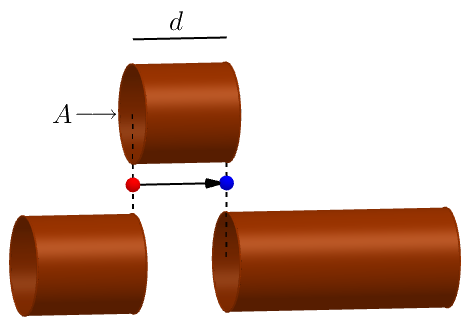
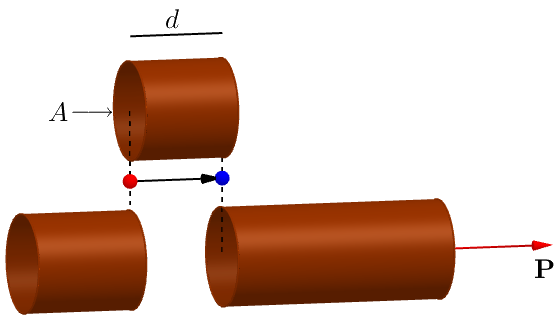
finalizacao campo densidade fluxo eletrico e alteracao de figura

Changed region(s): [[0.0897, 0.1703, 1.0, 0.9937], [0.0, 0.653, 0.3291, 0.9937], [0.2393, 0.0284, 0.4786, 0.142]]

diff --git a/fund_eletro.tex b/fund_eletro.tex
@@ -163,7 +163,7 @@ Considere agora um laço circular (linha de campo magnético) de raio $r$ contid
 \end{equation*} 
 \begin{figure}[h]
 \centering
-\includegraphics[scale=.5]{laco_amperiano}
+\includegraphics[scale=.4]{laco_amperiano}
 \caption{\textit{Laço amperiano seguindo a regra da mão direita: posicionando o polegar no sentido da corrente, o campo magnético tem o mesmo sentido dos demais dedos curvando em torno do fio.}}
 \label{fig.laco_amperiano}
 \end{figure}
@@ -314,18 +314,18 @@ A quarta e última equação de Maxwell é obtida substituindo a equação do fl
 \end{align*}
 
 Todos os fenômenos eletromagnéticos são governados por essas quatro equações de Maxwell  e os últimos duzentos anos acumularam evidências suficientes para tal fato. Como vimos, todas as equações têm princípios experimentais, são deduzidas formalmente em termos de cálculo diferencial e integral, e são satisfeitas pelas variáveis físicas $\rho$ e $\mathbf{J}$ que são as fontes dos campos elétrico e magnético respectivamente. As equações são sumarizadas a seguir:
-\begin{align*}
-\int\int_S\epsilon_0\textbf{E}\cdot\textit{d}\textbf{A}&=\int\int\int_{V}\rho\,dV,\\\\
-\int\int_S\textbf{B}\cdot\textit{d}\textbf{A}&=0,\\\\
-\int_s\frac{\mathbf{B}}{\mu_0}\cdot d\mathbf{s}&=\int\int_S\mathbf{J}\cdot\,d\mathbf{A}+\frac{d}{dt}\int\int_S\epsilon_0\,\textbf{E}\cdot\textit{d}\textbf{A},\\\\
+\begin{align}\label{eq.maxwell_1}
+\int\int_S\epsilon_0\textbf{E}\cdot\textit{d}\textbf{A}&=\int\int\int_{V}\rho\,dV,\\\nonumber\\\label{eq.maxwell_2}
+\int\int_S\textbf{B}\cdot\textit{d}\textbf{A}&=0,\\\nonumber\\\label{eq.maxwell_3}
+\int_s\frac{\mathbf{B}}{\mu_0}\cdot d\mathbf{s}&=\int\int_S\mathbf{J}\cdot\,d\mathbf{A}+\frac{d}{dt}\int\int_S\epsilon_0\,\textbf{E}\cdot\textit{d}\textbf{A},\\\nonumber\\\label{eq.maxwell_4}
 \int_s\pmb{E}\cdot d\pmb{s}&=-\frac{d}{dt}\int\int_S\pmb{B}\,d\pmb{A}.
-\end{align*}
+\end{align}
 
 \section{Generalizações da teoria}
 
 Nosso intuito é utilizar as equações de Maxwell para ajudar a determinar a composição de uma determinada região da subsuperfície. As informaçãoes sobre as propriedades eletromagnéticas de uma região dependem dos parâmetros $\rho$ e $\mathbf{J}$ de cada região, e esses parâmetros são usados para definir e inserir nas equações de Maxwell dois campos vetoriais, $\mathbf{D}$ e $\mathbf{H}$, que estão diretamente ligados às características do meio como veremos a seguir.
 
-De acordo com \cite{griffiths}, um átomo eletricamente neutro também tem algumas de suas características alteradas quando expostos num campo elétrico, pois as cargas positivas (no núcleo) são empurradas numa direção e as cargas negativas (elétrons) são empurradas para uma direção oposta. Na verdade, se o campo elétrico é muito forte, pode ser criada uma alteração permanente ``ionizando" o átomo. A aplicação de campo elétrico não tão extremo faz com que um equilíbrio seja rapidamente estabilizado criando um centro de cargas positivas e outro de cargas negativas deixando o átomo \textit{polarizado}, o qual agora passa a ter um pequeno \textit{momento de dipolo elétrico}, $\mathbf{p}$, que tem a mesma direção do campo elétrico e é proporcional ao mesmo.
+De acordo com \cite{griffiths}, um átomo eletricamente neutro também tem algumas de suas características alteradas quando expostos a campo elétrico $\mathbf{E}$, pois as cargas positivas (no núcleo) são empurradas numa direção e as cargas negativas (elétrons) são empurradas num sentido oposto. Na verdade, se o campo elétrico é muito forte, pode ser criada uma alteração permanente ``ionizando" o átomo. A aplicação de campo elétrico não tão extremo faz com que um equilíbrio seja rapidamente estabilizado criando um centro de cargas positivas e outro de cargas negativas deixando o átomo \textit{polarizado}, o qual agora passa a ter um pequeno \textit{momento de dipolo elétrico}, $\mathbf{p}$, que tem a mesma direção do campo elétrico e é proporcional ao mesmo.
 \begin{equation*}
 \mathbf{p}=\alpha\,\mathbf{E},
 \end{equation*}
@@ -349,8 +349,41 @@ Suponha que temos uma longa cadeia de dipolos conforme a figura \ref{fig.penquen
 \label{fig.polari_cilindro}
 \end{figure}
 Sendo $P$ a polarização de uma minúscula amostra do volume, $A$ a área de seção transversal do tubo e $d$ o comprimento da amostra, temos que o momento de dipolo da amostra é dado por $P\,A\,d$. Em termos de carga elétrica, esse momento de dipolo também pode ser definido como $q\,d$, onde $q$ é a carga elétrica no limite direito da amostra, e de onde se deduz que $q=P\,A$. Com a polarização, cargas são acumuladas no inteiror do corpo formando uma densidade de carga de polarização $\rho_p$, ocorrendo então um fenômeno de divergência da polarização através da superfície do tubo análago ao fenômeno da lei de Gauss. Assim, como um corpo dielétrico é eletricamente neutro, a quantidade total de carga negativa acumulada no interior do tubo é igual e oposta à quantidade de carga positiva empurrada através da superfície,
-\begin{equation*}
+\begin{equation}\label{eq.polarizacao_densidade}
 \int\int\int_V\rho_p\,d\,V=\int\int_S\mathbf{P}\cdot d\mathbf{A}.
+\end{equation}
+Um meio não possui somente cargas de polarização mas também pode possuir \textit{cargas livres}, as quais se movimentam livremente sob a ação de um campo elétrico. Denotando por $Q_f$ a quantidade de cargas livres e $Q_p$ as cargas de polarização, temos que a quantidade total de cargas de um meio qualquer é dada por
+\begin{equation*}
+Q=Q_f+Q_p,
+\end{equation*} 
+e usando a equação \ref{eq.densidade_carga}, temos que a densidade de carga do meio é
+\begin{equation}\label{eq.densi_carga_f_p}
+\int\int\int_{V}\rho\,dV=\int\int\int_{V}\rho_f\,dV+\int\int\int_{V}\rho_p\,dV.
+\end{equation}
+Substituindo a equação \ref{eq.densi_carga_f_p} na equação \ref{eq.maxwell_1}, a lei de Gauss para o fluxo elétrico se torna
+\begin{equation}\label{eq.lei_gauss_polarizacao}
+\int\int_S\epsilon_0\,\mathbf{E}\cdot d\mathbf{A}=\int\int\int_{V}\rho_f\,dV+\int\int\int_{V}\rho_p\,dV.
+\end{equation}
+Substituindo a equação \ref{eq.lei_gauss_polarizacao} na equação \ref{eq.polarizacao_densidade}, temos uma relação entre as cargas livres e de polarização com a lei de Gauss,
+\begin{align*}
+\int\int_S\epsilon_0\,\mathbf{E}\cdot d\mathbf{A}&=\int\int\int_{V}\rho_f\,dV+\int\int\int_{V}\rho_p\,dV\\
+\int\int_S\epsilon_0\,\mathbf{E}\cdot d\mathbf{A}&=\int\int\int_{V}\rho_f\,dV+\int\int_S\mathbf{P}\cdot d\mathbf{A}\\
+\int\int_S\epsilon_0\,(\mathbf{E}-\mathbf{P})\cdot d\mathbf{A}&=\int\int\int_{V}\rho_f\,dV,
+\end{align*}
+onde a expressão $\mathbf{D}=\epsilon_0\,\mathbf{E}-\mathbf{P}$ é chamada \textit{campo de densidade de fluxo elétrico}, e por fim
+\begin{equation*}
+\int\int_S\mathbf{D}\cdot d\mathbf{A}=\int\int\int_{V}\rho_f\,dV
 \end{equation*}
+
+
+
+
+
+
+
+
+
+
+
 
 \section{Conclusões}
